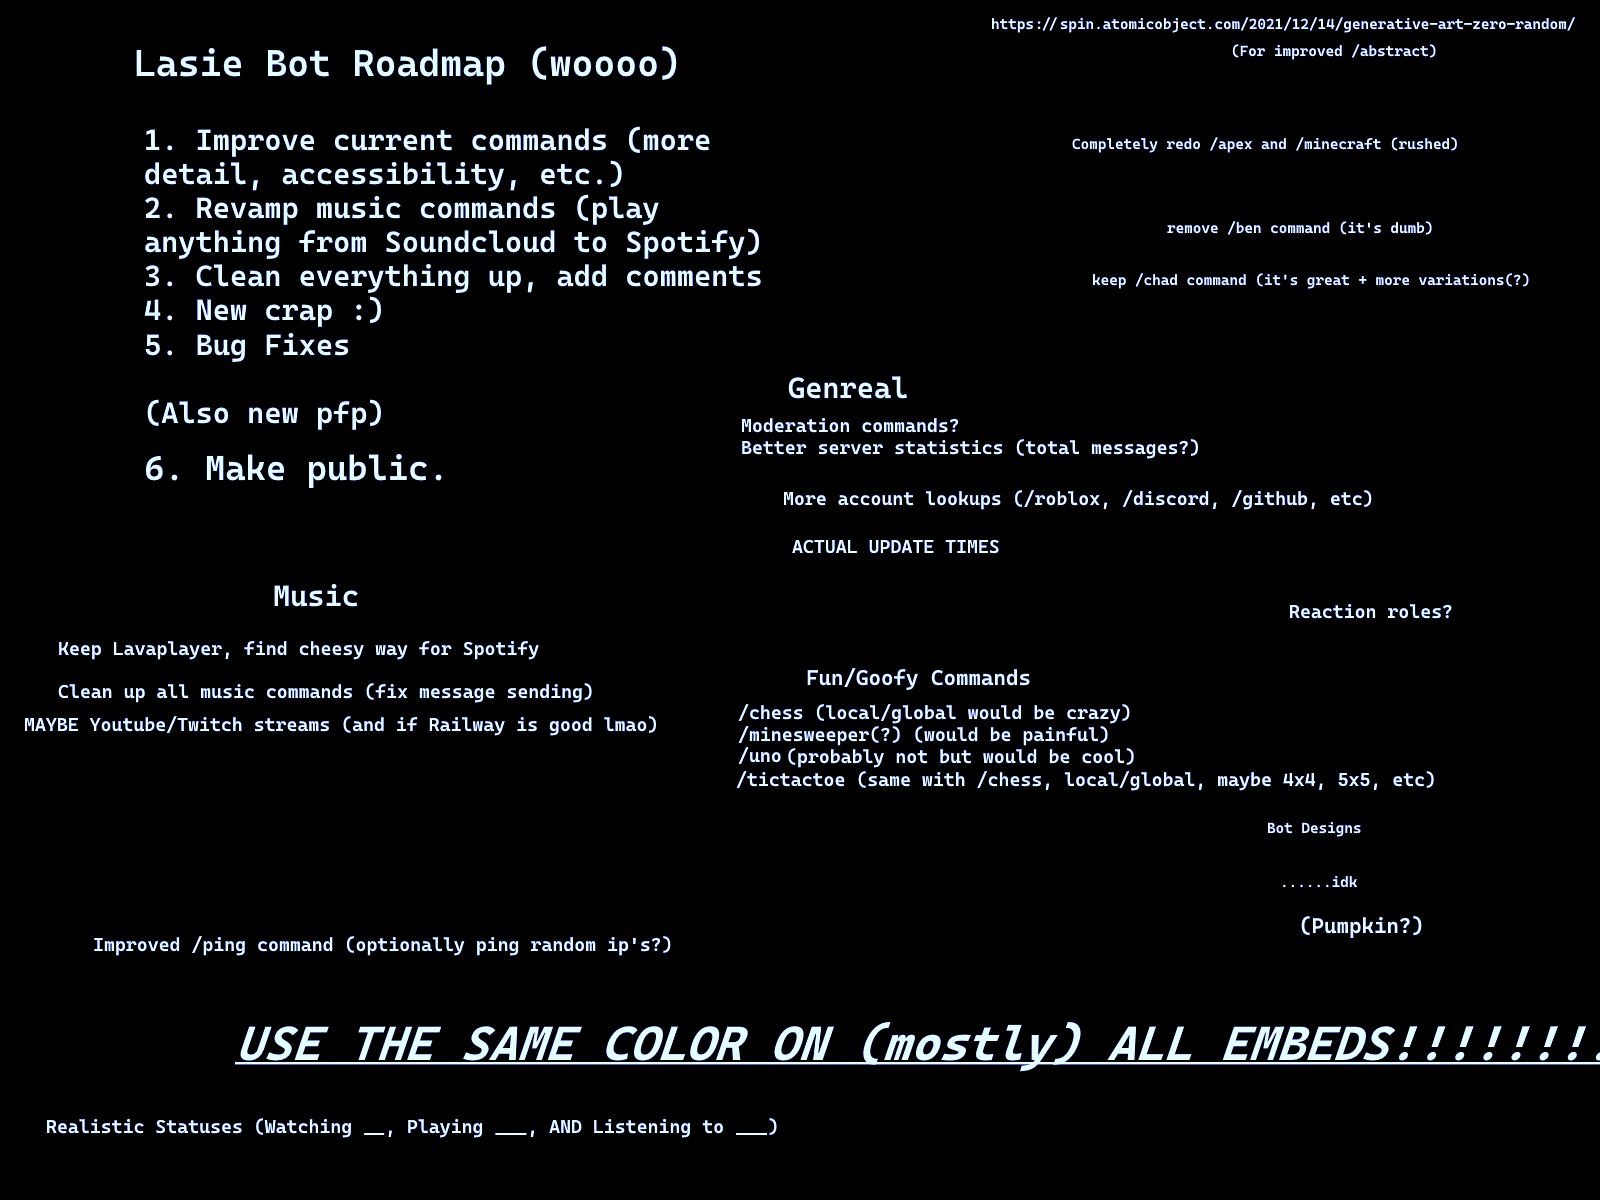
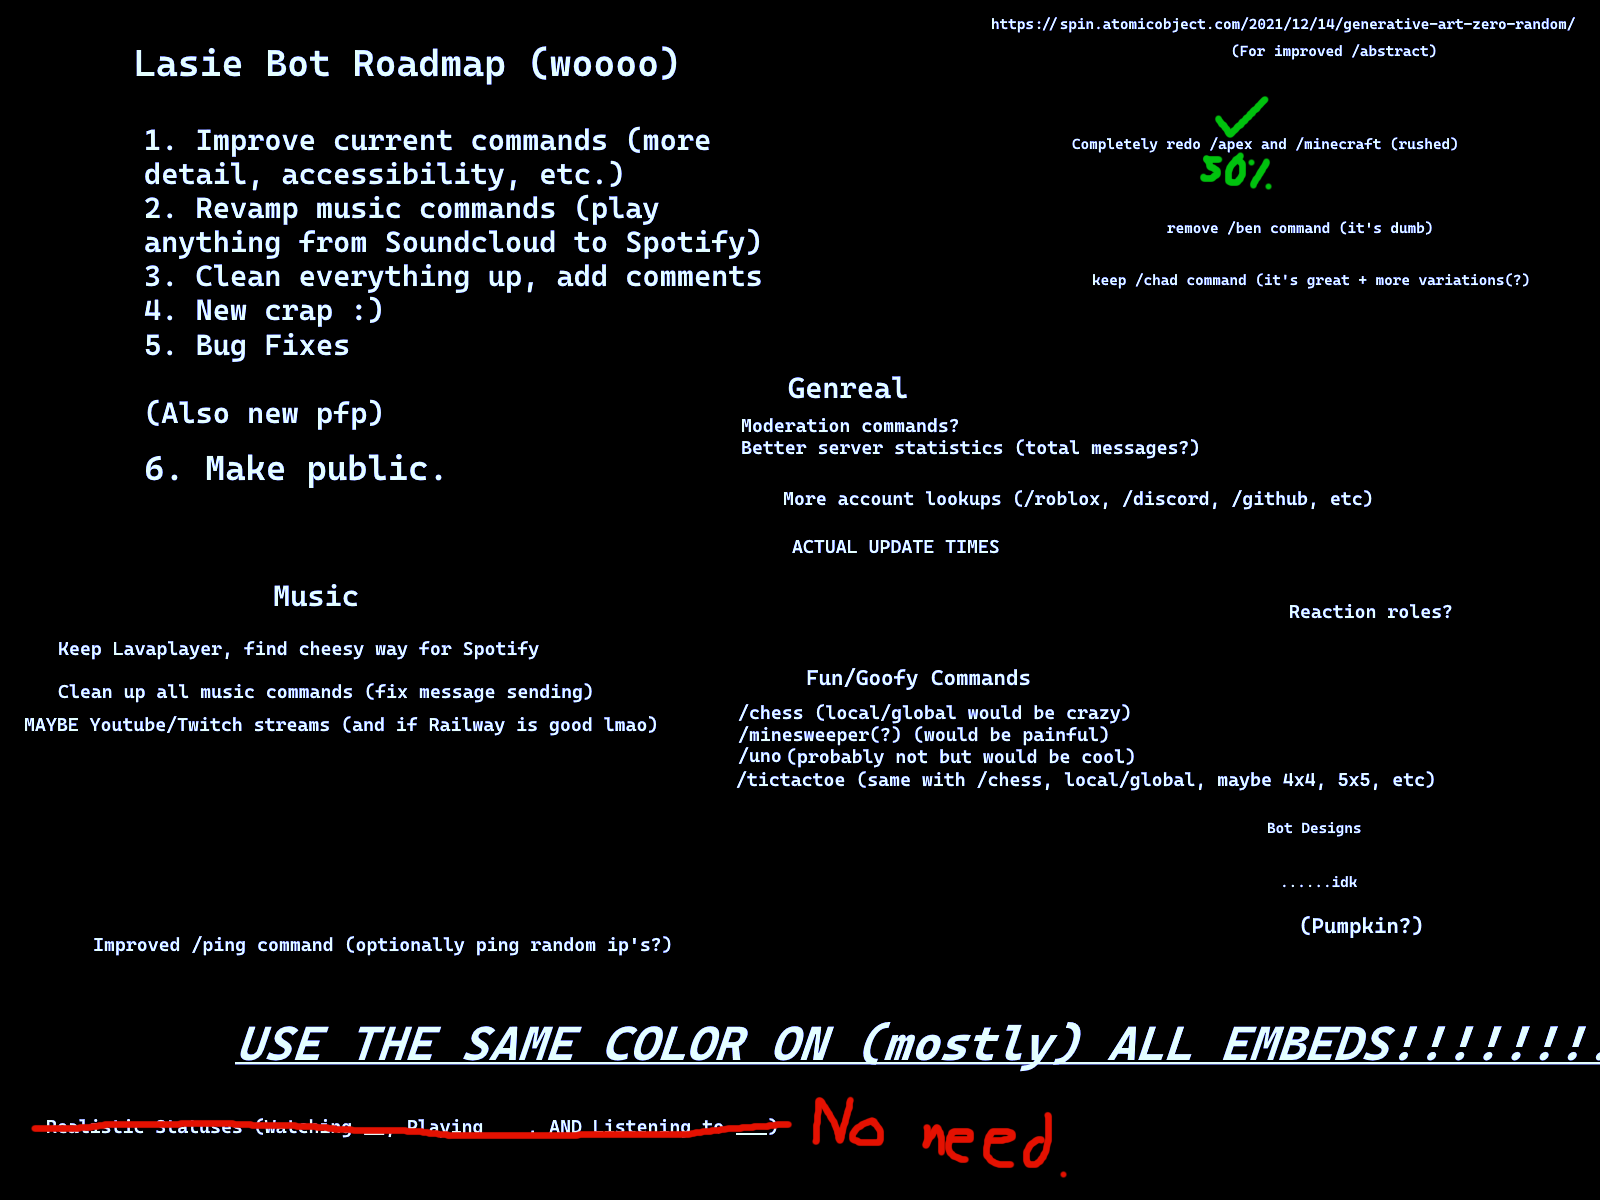
Added Switch accounts to /apex and UID lookup.

Changed region(s): [[0.0312, 0.8942, 0.6562, 0.9867], [0.75, 0.0925, 0.8125, 0.1542]]

diff --git a/src/main/java/com/github/pickleface5/commands/ApexCommand.java b/src/main/java/com/github/pickleface5/commands/ApexCommand.java
@@ -30,7 +30,7 @@ public class ApexCommand extends ListenerAdapter {
 
     @Override
     public void onCommandAutoCompleteInteraction(CommandAutoCompleteInteractionEvent event) {
-        if (event.getName().equals("apex") && event.getFocusedOption().getName().equals("subcommand")) {
+        if (event.getName().equals("apex") && event.getFocusedOption().getName().equals("subcommand")) { // (Yes, this is taken from the jda docs :p)
             List<Command.Choice> options = Stream.of(OPTIONS)
                     .filter(word -> word.startsWith(event.getFocusedOption().getValue())) // only display words that start with the user's current input
                     .map(word -> new Command.Choice(word, word)) // map the words to choices
@@ -43,29 +43,55 @@ public class ApexCommand extends ListenerAdapter {
     public void onSlashCommandInteraction(SlashCommandInteractionEvent event) {
         if (!event.getName().equals("apex")) return;
         if (Objects.requireNonNull(event.getOption("subcommand")).getAsString().equals("Player Statistics")) {
-            // Get Player stats (PC -> PS4 -> X1 -> ok you can't get switches stats via usernames... but you can still use their uid to get their stats... but the nameToUID call doesn't support switch? >.>))
             String playerUsername;
+            String playerUID = null;
             try {
                 playerUsername = Objects.requireNonNull(event.getOption("username")).getAsString();
             } catch (NullPointerException exception) {
-                event.reply("You need to specify a username!").setEphemeral(true).queue();
-                return;
+                playerUsername = null;
+                try {
+                    playerUID = Objects.requireNonNull(event.getOption("uid")).getAsString();
+                } catch (NullPointerException exception1) {
+                    event.reply("You need to specify a username or UID!").setEphemeral(true).queue();
+                    return;
+                }
             }
             event.deferReply(false).queue();
-            String jsonPlayerStatsPrefix = "https://api.mozambiquehe.re/bridge?auth=" + APEX_TOKEN + "&player=" + playerUsername + "&platform=";
             HttpResponse<JsonNode> jsonResponse = null;
             String playerPlatform = "";
-            for (int i = 0; i < Platforms.values().length; i++) {
-                playerPlatform = Platforms.values()[i].toString();
-                logger.info("Searching player {} on {}...", playerUsername, playerPlatform);
-                jsonResponse = Unirest.get(jsonPlayerStatsPrefix + playerPlatform).asJson();
+            String jsonPlayerStatsPrefix;
+            boolean isError = false;
+            if (playerUsername != null) {
+                jsonPlayerStatsPrefix = "https://api.mozambiquehe.re/bridge?auth=" + APEX_TOKEN + "&player=" + playerUsername + "&platform=";
+                for (int i = 0; i < Platforms.values().length - 1; i++) {
+                    playerPlatform = Platforms.values()[i].toString();
+                    logger.debug("Searching player {} on {}...", playerUsername, playerPlatform);
+                    jsonResponse = Unirest.get(jsonPlayerStatsPrefix + playerPlatform).asJson();
+                    if (isError(jsonResponse)) {
+                        if (i == Platforms.values().length) isError = true;
+                    } else {
+                        break;
+                    }
+                }
+            } else {
+                jsonPlayerStatsPrefix = "https://api.mozambiquehe.re/bridge?auth=" + APEX_TOKEN + "&uid=" + playerUID + "&platform=";
+                for (int i = 0; i < Platforms.values().length; i++) {
+                    playerPlatform = Platforms.values()[i].toString();
+                    logger.debug("Searching player {} on {}...", playerUID, playerPlatform);
+                    jsonResponse = Unirest.get(jsonPlayerStatsPrefix + playerPlatform).asJson();
+                    if (isError(jsonResponse)) {
+                        if (i == Platforms.values().length) isError = true;
+                    } else {
+                        break;
+                    }
+                }
             }
             assert jsonResponse != null;
-            if (isError(jsonResponse)) {
+            if (isError) {
                 sendErrorMessage(jsonResponse, event);
                 return;
             } else {
-                logger.info("Player stats found on {}", playerPlatform);
+                logger.debug("Player stats found on {}", playerPlatform);
                 logger.trace("({})", jsonPlayerStatsPrefix + playerPlatform);
             }
 
@@ -73,16 +99,12 @@ public class ApexCommand extends ListenerAdapter {
             JSONObject playerGlobalStats = jsonResponse.getBody().getObject().getJSONObject("global");
             JSONObject playerRealtimeStats = jsonResponse.getBody().getObject().getJSONObject("realtime");
             JSONArray playerLegendData = jsonResponse.getBody().getObject().getJSONObject("legends").getJSONObject("selected").getJSONArray("data");
+            playerUsername = playerGlobalStats.getString("name");
             String playerLevel = playerGlobalStats.getString("level");
-            logger.trace("Level: {}", playerLevel);
             String playerNextLevel = playerGlobalStats.getString("toNextLevelPercent");
-            logger.trace("To Next Level %: {}", playerNextLevel);
-            String playerUID = playerGlobalStats.getString("uid");
-            logger.trace("UID: {}", playerUID);
+            String playerEmbedUID = playerGlobalStats.getString("uid");
             String playerSelectedLegend = playerRealtimeStats.getString("selectedLegend");
-            logger.trace("Selected Legend: {}", playerSelectedLegend);
             String currentState = playerRealtimeStats.getString("currentStateAsText");
-            logger.trace("Current State: {}", currentState);
             JSONObject battleRoyaleStats = playerGlobalStats.getJSONObject("rank");
             String normalRankName = battleRoyaleStats.getString("rankName");
             String normalRankDiv = battleRoyaleStats.getString("rankDiv");
@@ -109,7 +131,7 @@ public class ApexCommand extends ListenerAdapter {
                 }
             } catch (JSONException ignored) {
             } // There isn't always 3 stats (can have none), so we just continue if it can't find 3.
-            statsEmbed.setFooter("Player UID: " + playerUID + "\nPowered by https://apexlegendsapi.com");
+            statsEmbed.setFooter("Player UID: " + playerEmbedUID + "\nPowered by https://apexlegendsapi.com");
 
             event.getHook().sendMessageEmbeds(statsEmbed.build()).queue();
         } else if (Objects.requireNonNull(event.getOption("subcommand")).getAsString().equals("Map Rotation")) {
@@ -121,7 +143,6 @@ public class ApexCommand extends ListenerAdapter {
                 sendErrorMessage(jsonNode, event);
                 return;
             }
-            logger.trace(jsonResponse.toString());
 
             JSONObject battleRoyaleMap = jsonResponse.getJSONObject("battle_royale");
             JSONObject brCurrent = battleRoyaleMap.getJSONObject("current");

diff --git a/src/main/java/com/github/pickleface5/util/CommandRegistry.java b/src/main/java/com/github/pickleface5/util/CommandRegistry.java
@@ -30,7 +30,8 @@ public class CommandRegistry {
         registerSlashCommand("members", "Returns a count of members in the server.", new MembersCommand());
         registerSlashCommand(Commands.slash("apex", "Returns the stats of an Apex Legends player.")
                 .addOption(OptionType.STRING, "subcommand", "Username of the Apex Legends player you want to look up.", true, true)
-                .addOption(OptionType.STRING, "username", "Enter username here. (For player statistics only, leave blank otherwise)"), new ApexCommand());
+                .addOption(OptionType.STRING, "username", "Enter username here. (For player statistics only, leave blank otherwise)")
+                .addOption(OptionType.STRING, "uid", "Enter player UID here. (REQUIRED for switch players for player stats.)"), new ApexCommand());
         registerSlashCommand("join", "Joins your current voice channel.", new JoinCommand());
         registerSlashCommand("leave", "Leaves the voice channel the bot is connected to.", new LeaveCommand());
         registerSlashCommand(Commands.slash("play", "Plays audio in your voice channel.")

diff --git a/src/main/java/com/github/pickleface5/commands/apex/Platforms.java b/src/main/java/com/github/pickleface5/commands/apex/Platforms.java
@@ -3,5 +3,6 @@ package com.github.pickleface5.commands.apex;
 public enum Platforms {
     PC,
     PS4,
-    X1
+    X1,
+    SWITCH
 }
